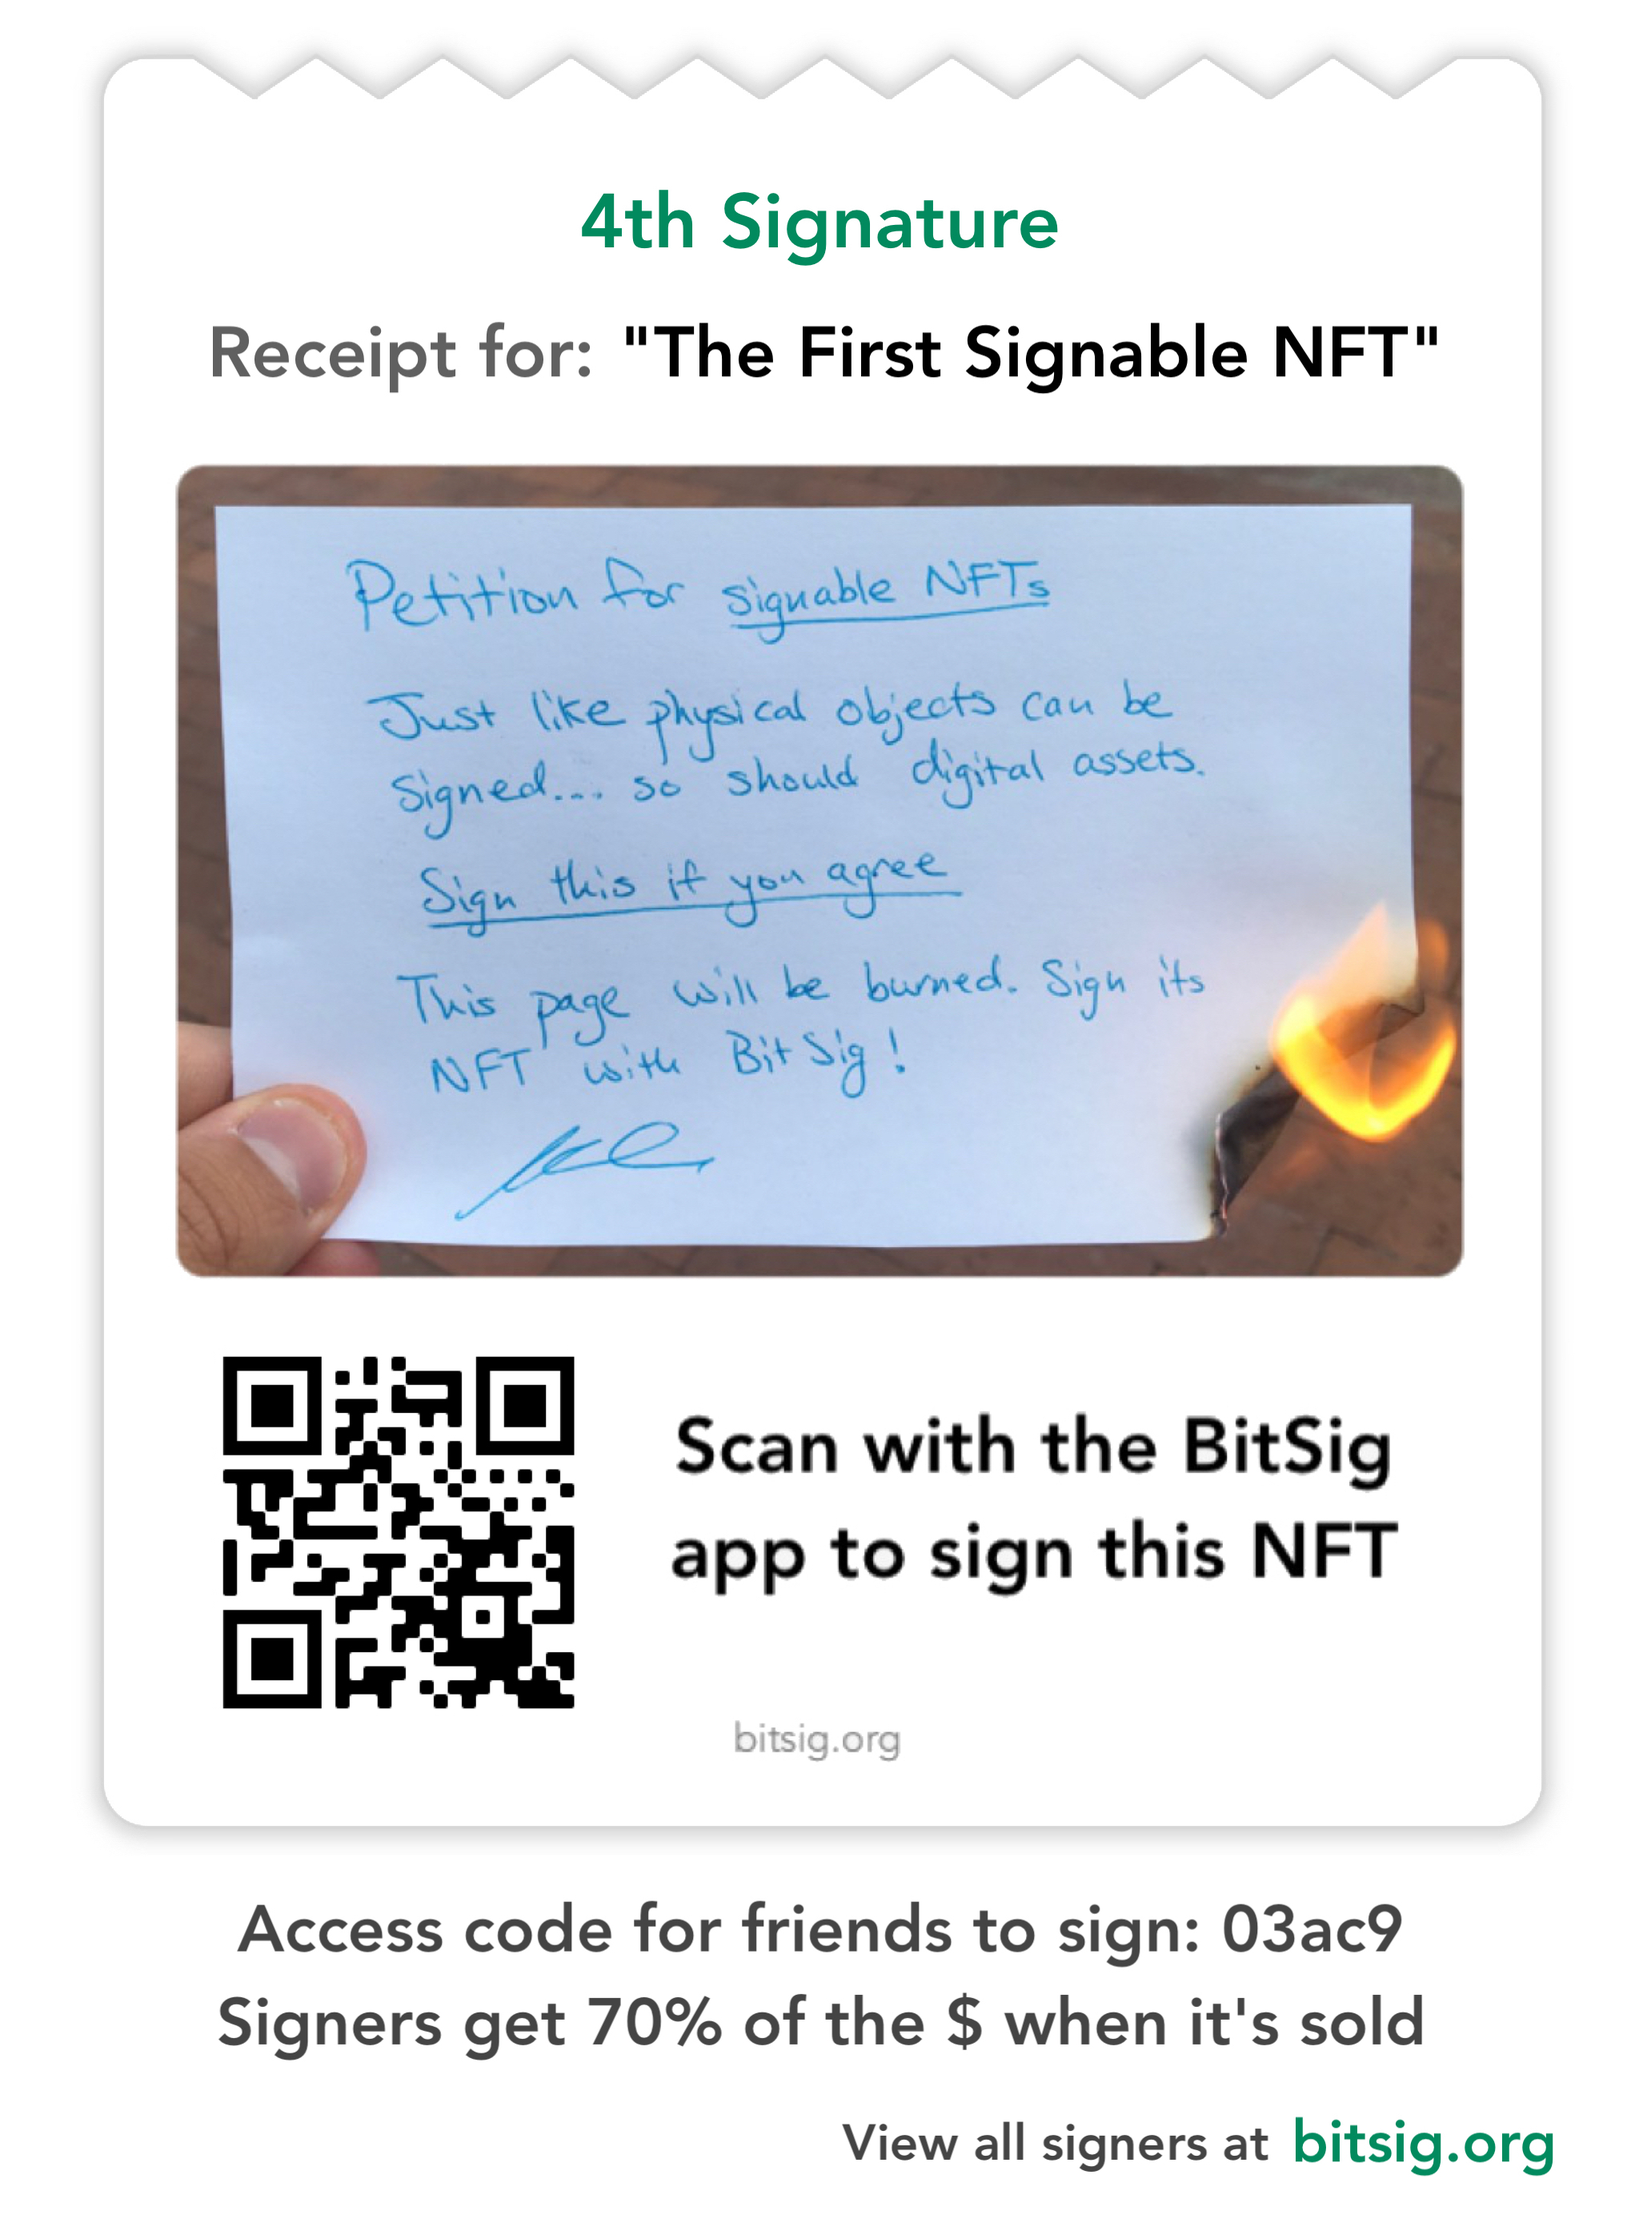
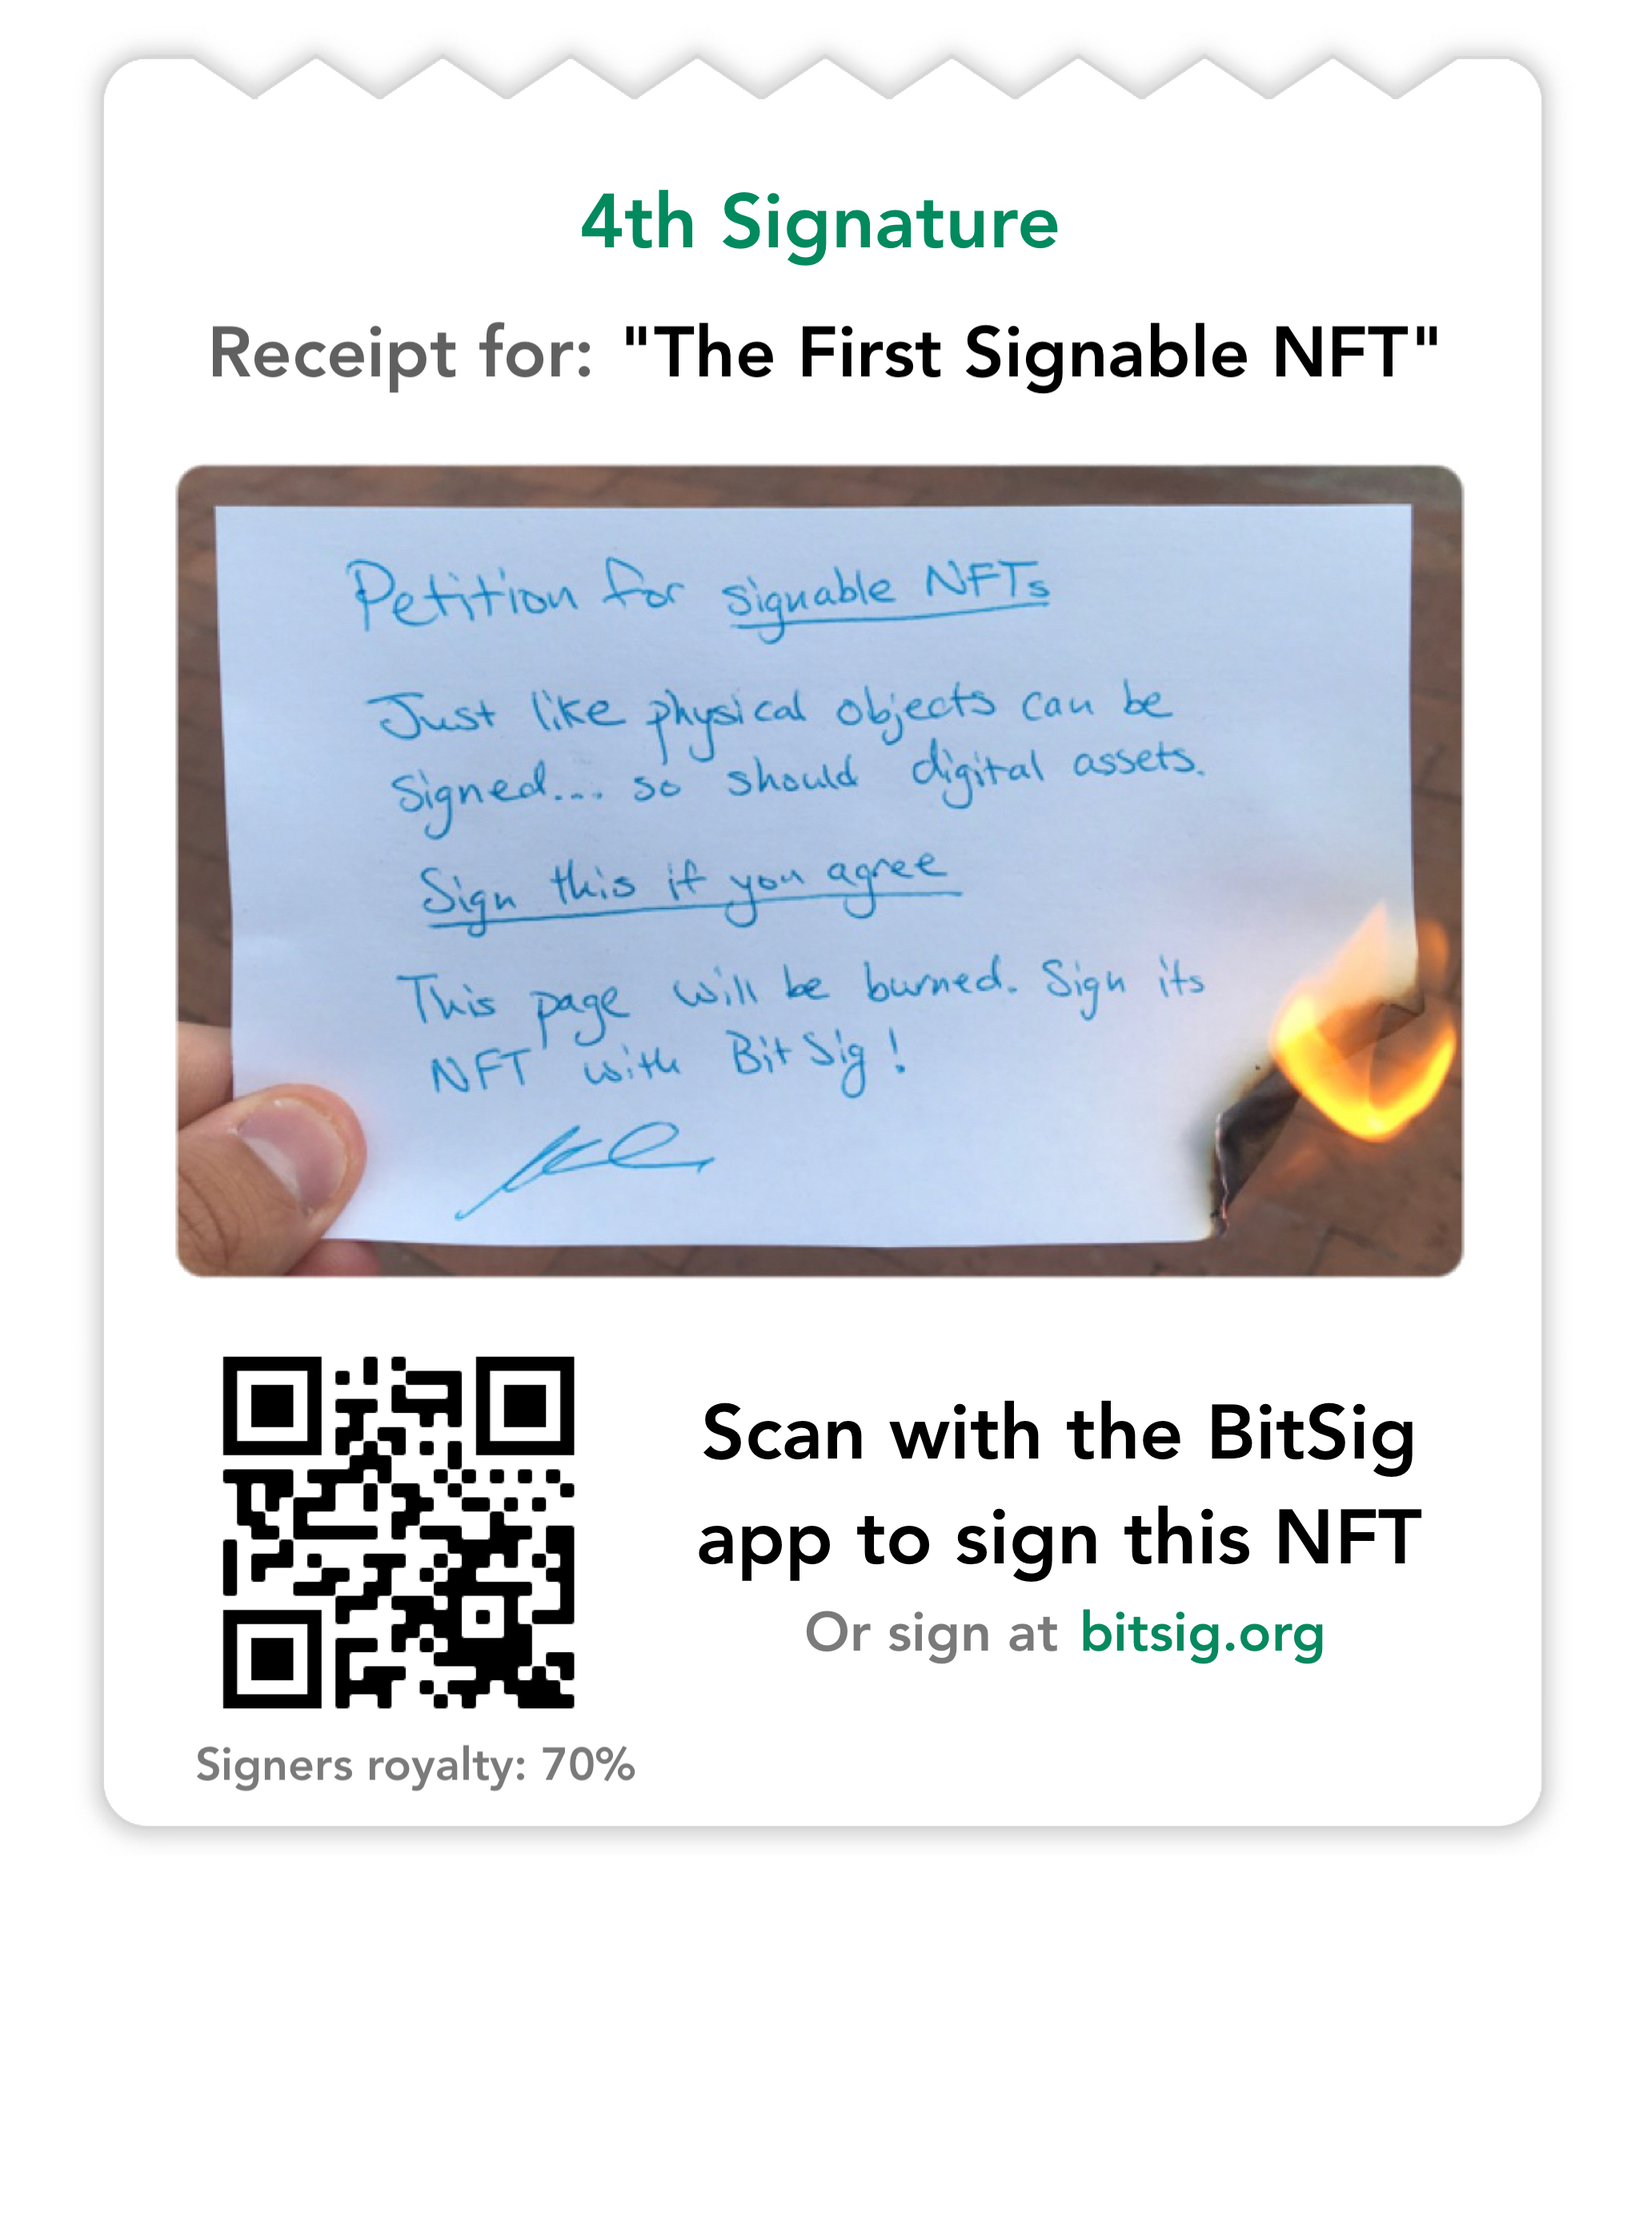
added sign up with link and signing

diff --git a/index.html b/index.html
@@ -54,7 +54,7 @@
                 <p class="qr_text">Every time the NFT is sold. Forever.</p>
             </div>
             <div class="col-lg-6 col-md-6 text-center my-auto mx-auto" id="qr_wrapper">
-                <img src="img/qr_fire_5.png" id="qr"/>
+                <img src="img/qr_fire_9.png" id="qr"/>
             </div>
         </div>
       </div>
@@ -210,6 +210,17 @@
                 <p class="desc_text">The file that has all of the signatures is stored on ipfs. When more signers sign, a new file is created that includes the new signers. The new file has a link that points back to the previous file. BitSig creates the files and keeps track of the link to the latest file. The token itself can also hold the link to the latest file. By continuously setting the latest link in the token, a history of the signer files is held in the blockchain,  which ensures the validity of the chain of files. </p>
                 <br/>
                 <p class="desc_text">For extra security, signatures can be added directly to the token. This is, however, will cost gas payable by either the token owner or the signer.</p>
+            </div>
+        </div>
+      </div>
+    </section>
+
+    <section>
+      <div class="container">
+        <div class="row mx-auto mb-1 mt-4">
+            <div class="col-lg-6 col-md-6 text-left my-auto mx-auto">
+                <p class="desc_text_highlighted">What's next?</p>
+                <p class="desc_text">The BitSig platform is still being built. When it launches, you'll be able to create and manage your own signable tokens, view other tokens, and buy/sell them.</p>
             </div>
         </div>
       </div>

diff --git a/signedToken/index.html b/signedToken/index.html
@@ -50,9 +50,10 @@
         <div class="row mx-auto">
             <div class="col-lg-6 col-md-6 text-center my-auto mx-auto">
                 <p class="qr_text_highlighted">Your signature is now in (crypto) history!</p>
-                <p class="qr_text">Share your spot with your signature receipt:</p>
+                <!-- <p class="qr_text">Connect Twitter</p> -->
+                <p class="qr_text">Share your spot with your signature receipt</p>
             </div>
-            <div class="col-lg-6 col-md-6 my-auto mx-auto" id="qr_wrapper">
+            <div class="col-lg-6 col-md-6 text-center my-auto mx-auto" id="qr_wrapper">
                 <img src="img/ticket_9.jpg" id="qr"/>
             </div>
         </div>
